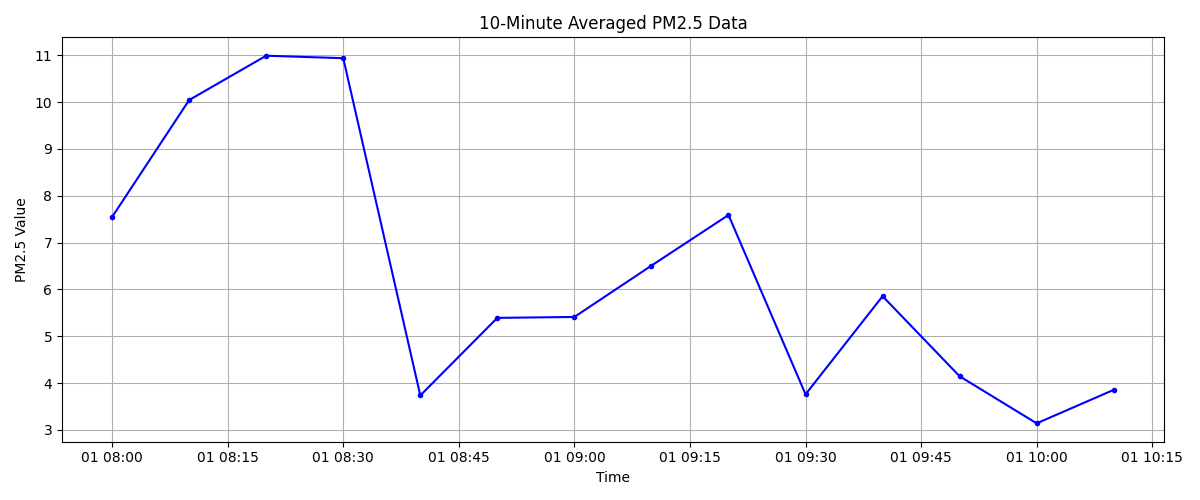
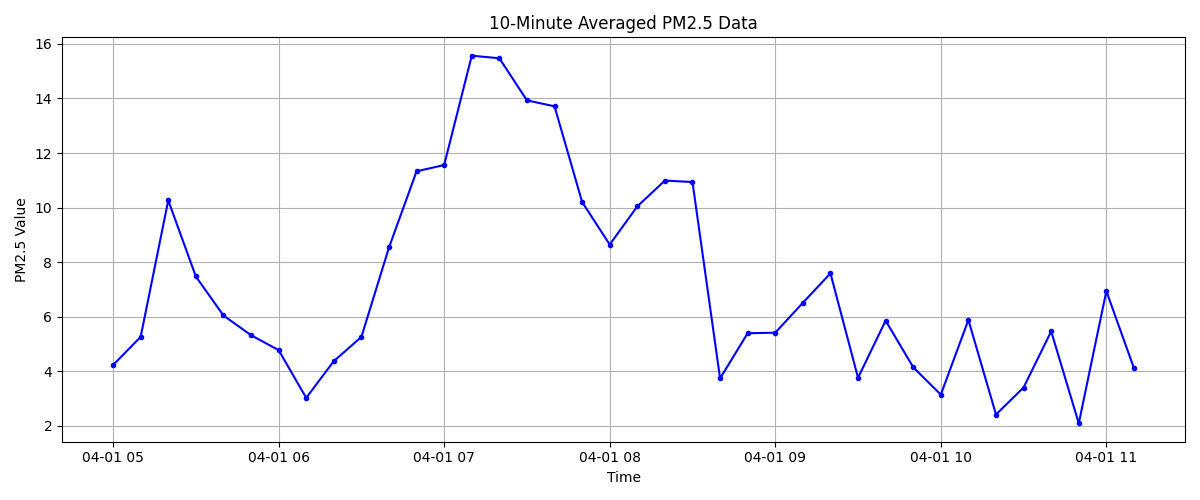
implement pm25 classification

diff --git a/classification_component/pm25_classification.py b/classification_component/pm25_classification.py
@@ -9,7 +9,7 @@ import tflite_runtime.interpreter as tflite
 BROKER = os.environ.get("MQTT_BROKER", "localhost")
 SUBSCRIBE_TOPIC = "sensor/pm25"
 PUBLISH_TOPIC = "sensor/classification"
-TARGET_POINTS = 8706
+TARGET_POINTS = 3000
 OUTPUT_DIR = "/app/output"
 
 pm25_dataset = []

diff --git a/pm25_prediction.py b/pm25_prediction.py
@@ -10,7 +10,7 @@ from ml_engine import MLPredictor
 
 BROKER = os.environ.get("MQTT_BROKER", "localhost")
 TOPIC = "sensor/pm25"
-TARGET_POINTS = 8706
+TARGET_POINTS = 3000
 OUTPUT_DIR = "/app/output"
 
 pm25_dataset = []
